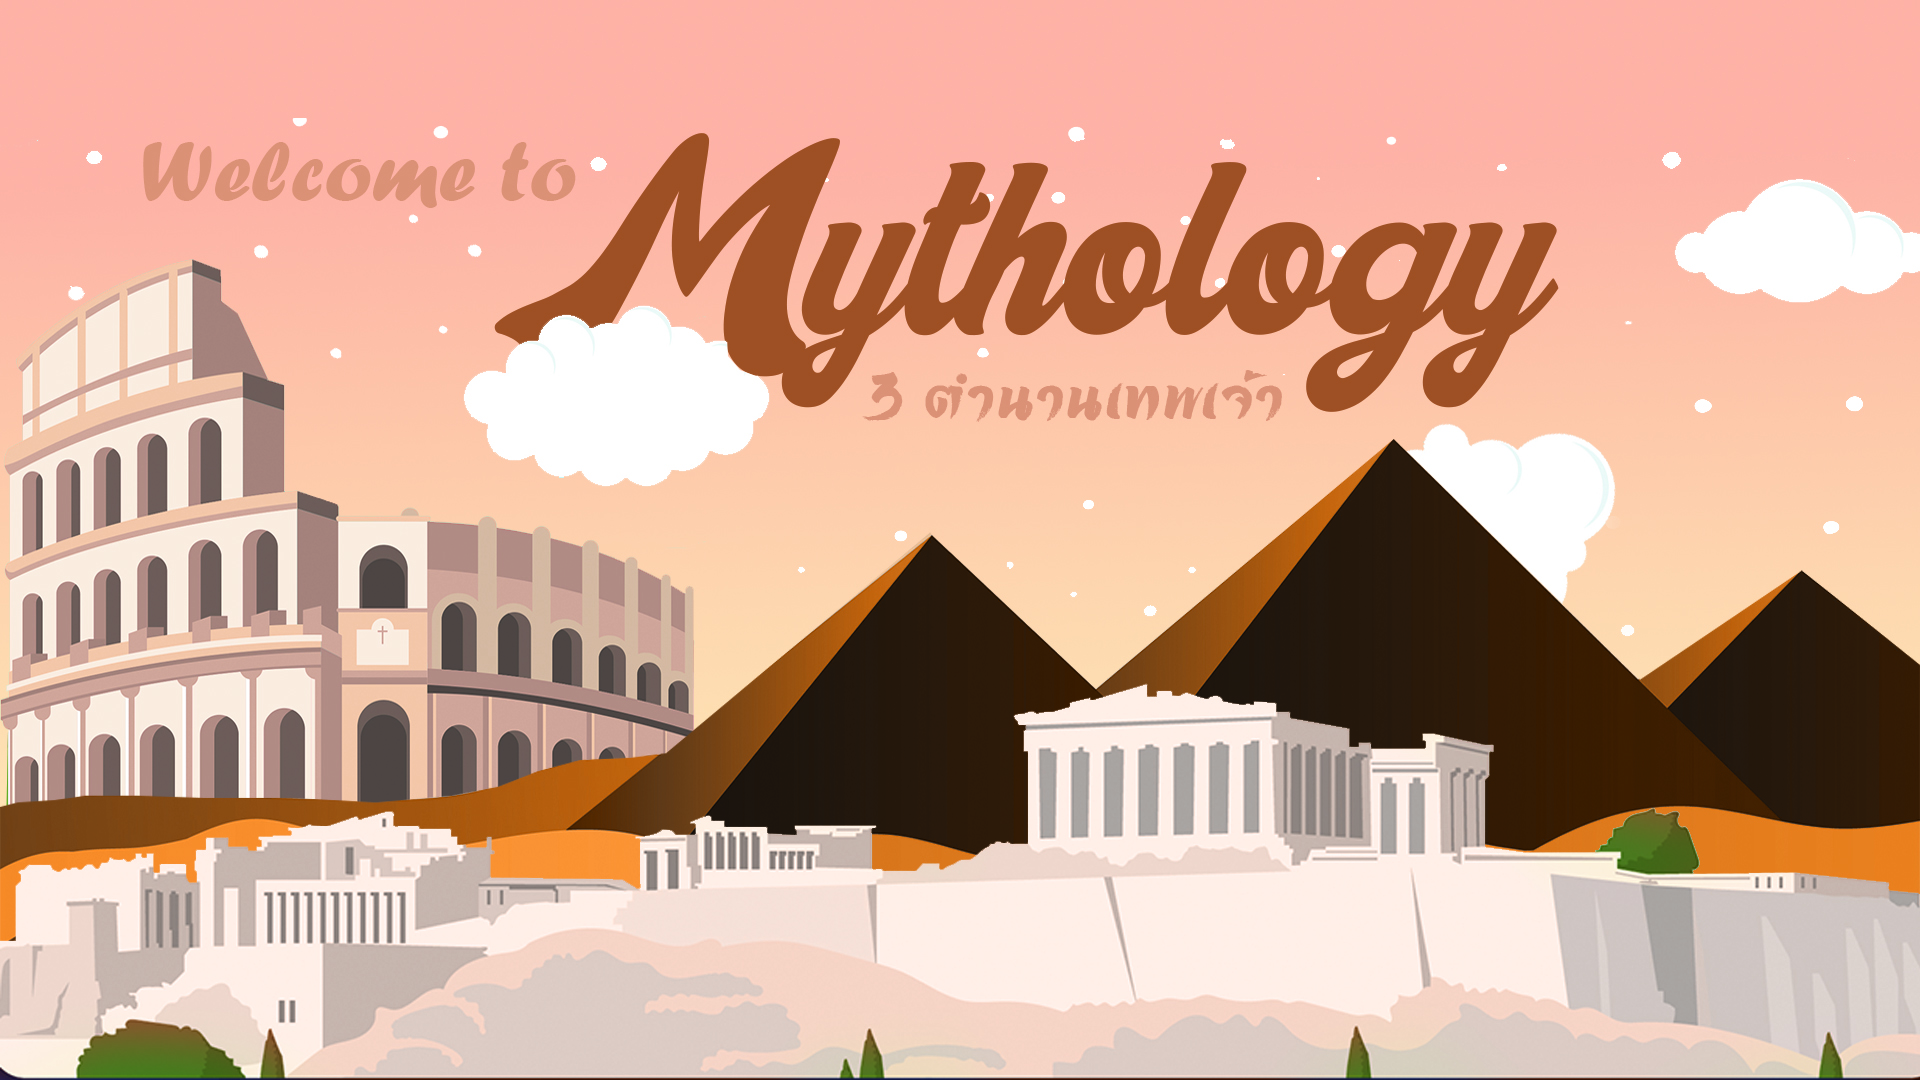
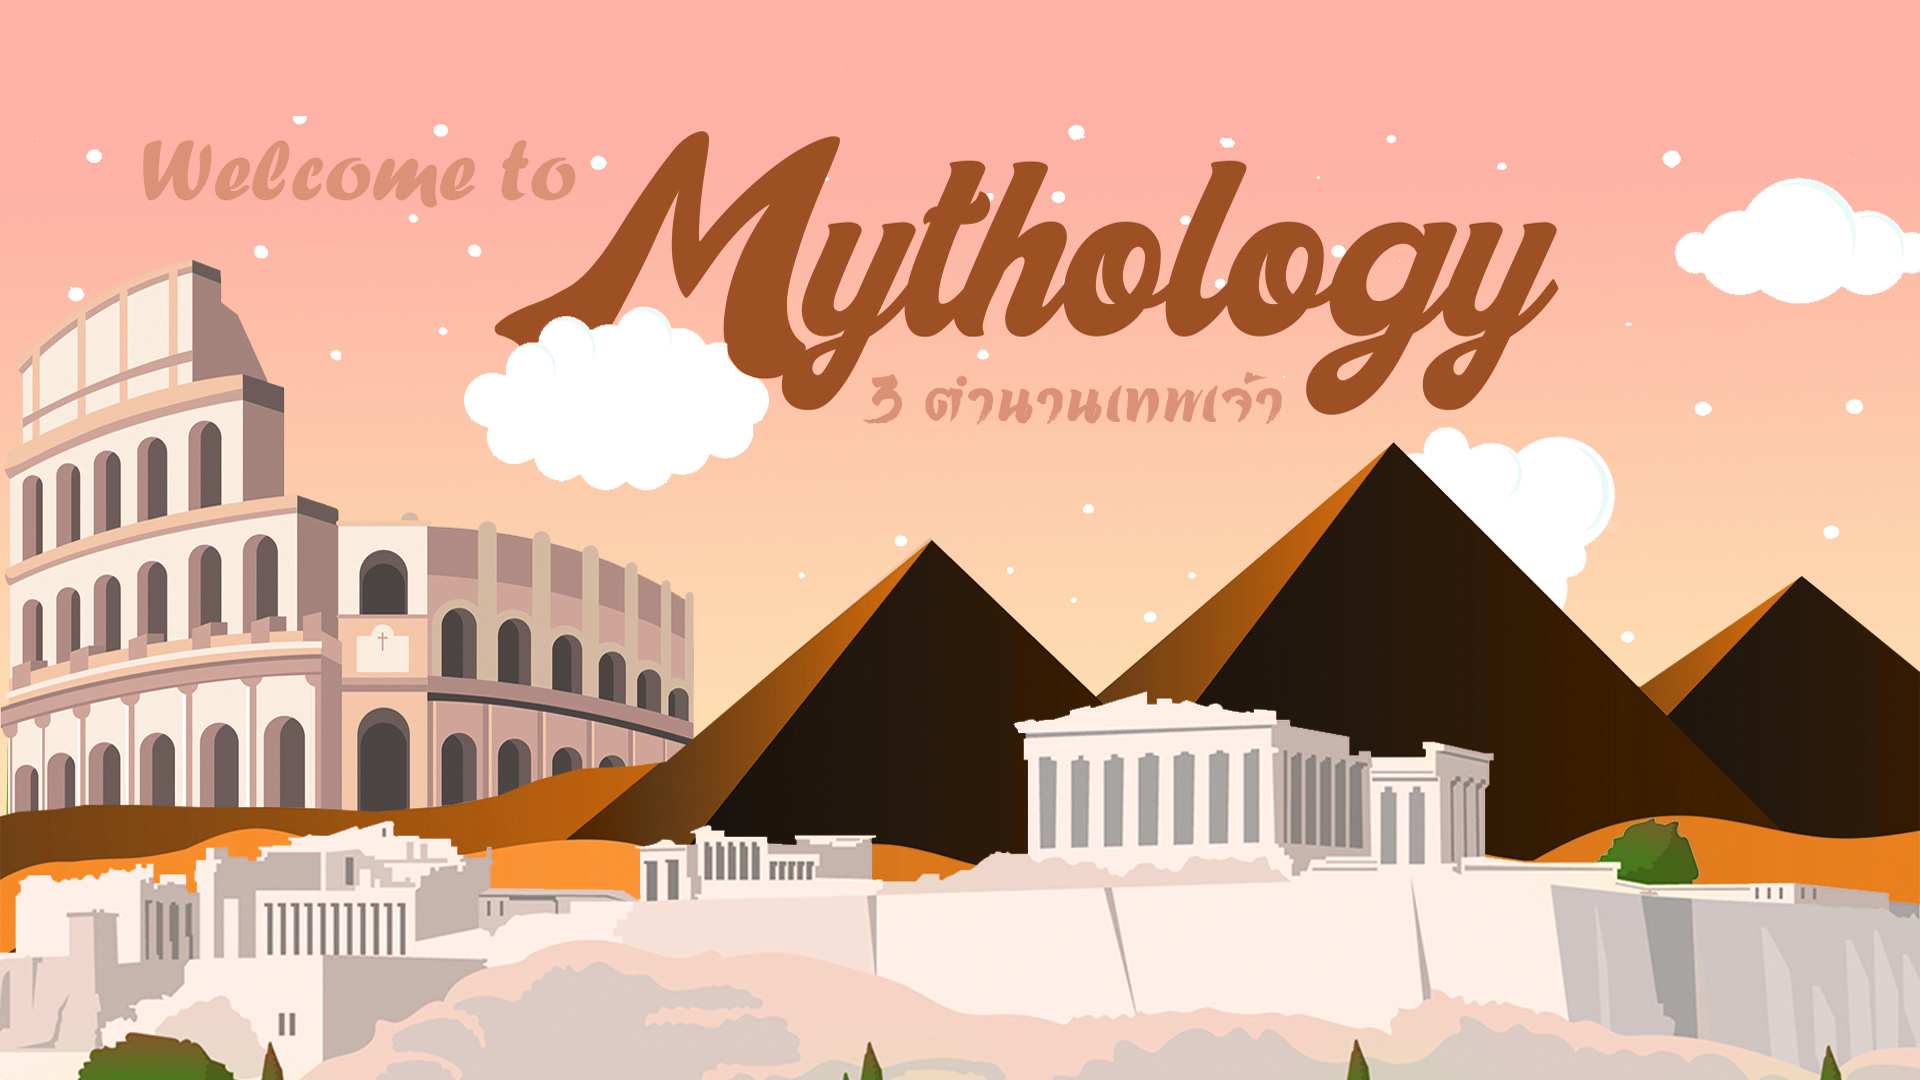
index Test

diff --git a/indextest.html b/indextest.html
@@ -1,0 +1,160 @@
+<!DOCTYPE html>
+<html lang="en">
+
+<head>
+    <meta charset="UTF-8">
+    <meta name="viewport" content="width=device-width, initial-scale=1.0">
+    <meta http-equiv="X-UA-Compatible" content="ie=edge">
+    <title>Document</title>
+    <link rel="stylesheet" href="style.css">
+    <link rel="stylesheet" href="https://stackpath.bootstrapcdn.com/bootstrap/4.3.1/css/bootstrap.min.css"
+        integrity="sha384-ggOyR0iXCbMQv3Xipma34MD+dH/1fQ784/j6cY/iJTQUOhcWr7x9JvoRxT2MZw1T" crossorigin="anonymous">
+    <script src="https://code.jquery.com/jquery-3.3.1.slim.min.js"
+        integrity="sha384-q8i/X+965DzO0rT7abK41JStQIAqVgRVzpbzo5smXKp4YfRvH+8abtTE1Pi6jizo" crossorigin="anonymous">
+        </script>
+    <script src="https://cdnjs.cloudflare.com/ajax/libs/popper.js/1.14.7/umd/popper.min.js"
+        integrity="sha384-UO2eT0CpHqdSJQ6hJty5KVphtPhzWj9WO1clHTMGa3JDZwrnQq4sF86dIHNDz0W1" crossorigin="anonymous">
+        </script>
+    <script src="https://stackpath.bootstrapcdn.com/bootstrap/4.3.1/js/bootstrap.min.js"
+        integrity="sha384-JjSmVgyd0p3pXB1rRibZUAYoIIy6OrQ6VrjIEaFf/nJGzIxFDsf4x0xIM+B07jRM" crossorigin="anonymous">
+        </script>
+    <link rel="stylesheet" href="style.css">
+    <link href="https://fonts.googleapis.com/css?family=Sriracha&display=swap" rel="stylesheet">
+</head>
+
+<body>
+    <div class="">
+        <nav class="navbar navbar-expand-sm navbar-dark fixed-top">
+            <div class="collapse navbar-collapse" id="navbarSupportedContent">
+                <ul class="navbar-nav mr-auto pl-5">
+                    <li class="nav-item">
+                        <a class="nav-link active" href="#">Home</a>
+                    </li>
+                    <li class="nav-item">
+                        <a class="nav-link" href="#">Category</a>
+                    </li>
+                    <li class="nav-item">
+                        <a class="nav-link" href="#">Team</a>
+                    </li>
+                    <li class="nav-item">
+                        <a class="nav-link" href="#">Contact</a>
+                    </li>
+                </ul>
+                <form class="form-inline my-2 my-sm-0">
+                    <input class="form-control mr-sm-3" type="search" placeholder="Search" aria-label="Search">
+                    <button class="btn btn-outline-success my-2 my-sm-0" type="submit">Search</button>
+                </form>
+            </div>
+        </nav>
+        <div class="home">
+            <img src="Full-Design/Labelhome.jpg" class="img-fluid">
+            <div class="clouds">
+
+                <svg version="1.1" xmlns="http://www.w3.org/2000/svg" xmlns:xlink="http://www.w3.org/1999/xlink" x="0px"
+                    y="0px" width="762px" height="331px" viewBox="0 0 762 331" enable-background="new 0 0 762 331"
+                    xml:space="preserve" class="cloud big front slowest">
+                    <path fill="#FFFFFF" d="M715.394,228h-16.595c0.79-5.219,1.201-10.562,1.201-16c0-58.542-47.458-106-106-106
+                        c-8.198,0-16.178,0.932-23.841,2.693C548.279,45.434,488.199,0,417.5,0c-84.827,0-154.374,65.401-160.98,148.529
+                        C245.15,143.684,232.639,141,219.5,141c-49.667,0-90.381,38.315-94.204,87H46.607C20.866,228,0,251.058,0,279.5
+                        S20.866,331,46.607,331h668.787C741.133,331,762,307.942,762,279.5S741.133,228,715.394,228z" />
+                </svg>
+                <svg version="1.1" xmlns="http://www.w3.org/2000/svg" xmlns:xlink="http://www.w3.org/1999/xlink" x="0px"
+                    y="0px" width="762px" height="331px" viewBox="0 0 762 331" enable-background="new 0 0 762 331"
+                    xml:space="preserve" class="cloud distant smaller">
+                    <path fill="#FFFFFF" d="M715.394,228h-16.595c0.79-5.219,1.201-10.562,1.201-16c0-58.542-47.458-106-106-106
+                        c-8.198,0-16.178,0.932-23.841,2.693C548.279,45.434,488.199,0,417.5,0c-84.827,0-154.374,65.401-160.98,148.529
+                        C245.15,143.684,232.639,141,219.5,141c-49.667,0-90.381,38.315-94.204,87H46.607C20.866,228,0,251.058,0,279.5
+                        S20.866,331,46.607,331h668.787C741.133,331,762,307.942,762,279.5S741.133,228,715.394,228z" />
+                </svg>
+
+                <svg version="1.1" xmlns="http://www.w3.org/2000/svg" xmlns:xlink="http://www.w3.org/1999/xlink" x="0px"
+                    y="0px" width="762px" height="331px" viewBox="0 0 762 331" enable-background="new 0 0 762 331"
+                    xml:space="preserve" class="cloud small slow">
+                    <path fill="#FFFFFF" d="M715.394,228h-16.595c0.79-5.219,1.201-10.562,1.201-16c0-58.542-47.458-106-106-106
+                        c-8.198,0-16.178,0.932-23.841,2.693C548.279,45.434,488.199,0,417.5,0c-84.827,0-154.374,65.401-160.98,148.529
+                        C245.15,143.684,232.639,141,219.5,141c-49.667,0-90.381,38.315-94.204,87H46.607C20.866,228,0,251.058,0,279.5
+                        S20.866,331,46.607,331h668.787C741.133,331,762,307.942,762,279.5S741.133,228,715.394,228z" />
+                </svg>
+
+                <svg version="1.1" xmlns="http://www.w3.org/2000/svg" xmlns:xlink="http://www.w3.org/1999/xlink" x="0px"
+                    y="0px" width="762px" height="331px" viewBox="0 0 762 331" enable-background="new 0 0 762 331"
+                    xml:space="preserve" class="cloud distant super-slow massive">
+                    <path fill="#FFFFFF" d="M715.394,228h-16.595c0.79-5.219,1.201-10.562,1.201-16c0-58.542-47.458-106-106-106
+                        c-8.198,0-16.178,0.932-23.841,2.693C548.279,45.434,488.199,0,417.5,0c-84.827,0-154.374,65.401-160.98,148.529
+                        C245.15,143.684,232.639,141,219.5,141c-49.667,0-90.381,38.315-94.204,87H46.607C20.866,228,0,251.058,0,279.5
+                        S20.866,331,46.607,331h668.787C741.133,331,762,307.942,762,279.5S741.133,228,715.394,228z" />
+                </svg>
+
+                <svg version="1.1" xmlns="http://www.w3.org/2000/svg" xmlns:xlink="http://www.w3.org/1999/xlink" x="0px"
+                    y="0px" width="762px" height="331px" viewBox="0 0 762 331" enable-background="new 0 0 762 331"
+                    xml:space="preserve" class="cloud slower">
+                    <path fill="#FFFFFF" d="M715.394,228h-16.595c0.79-5.219,1.201-10.562,1.201-16c0-58.542-47.458-106-106-106
+                        c-8.198,0-16.178,0.932-23.841,2.693C548.279,45.434,488.199,0,417.5,0c-84.827,0-154.374,65.401-160.98,148.529
+                        C245.15,143.684,232.639,141,219.5,141c-49.667,0-90.381,38.315-94.204,87H46.607C20.866,228,0,251.058,0,279.5
+                        S20.866,331,46.607,331h668.787C741.133,331,762,307.942,762,279.5S741.133,228,715.394,228z" />
+                </svg>
+
+            </div>
+        </div>
+        <div class="choose">
+            <img src="Full-Design/Choose.jpg" class="img-fluid">
+            <div class="container-fluid">
+                <div class="row">
+                    <div class="col-sm">
+                        <a href="justtest.html"><label><img src="Full-Design/LogoGreek.png" alt="" class="img-fluid"></label></a>
+                    </div>
+                    <div class="col-sm">
+                        <a href="justtest.html"><label><img src="Full-Design/LogoNorse.png" alt="" class="img-fluid"></label></a>
+                    </div>
+                    <div class="col-sm">
+                        <a href="justtest.html"><label><img src="Full-Design/LogoEgypt.png" alt="" class="img-fluid"></label></a>
+                    </div>
+                </div>
+            </div>
+        </div>
+        <div class="Teamproduct">
+            <img src="Full-Design/Teamproduct.jpg" class="img-fluid">
+        </div>
+        <div class="homequiz">
+                <br>
+                <br>
+                <br>
+                <br>
+                <br>
+            <div class="container-fluid">
+                <h1>Quiz for Memory Mythology </h1>
+                <h2> แบบทดสอบช่วยทวนความจำ Click จรวดเลย~~</h2>
+                <div class="row">
+                    <div class="col-md" align="center">
+                        <br>
+                        <br>
+                        <br>
+                        <br>
+                        <br>
+                        <br>
+                        <a href="justtest.html"><img src="Full-Design/paperplane.png" alt="" class="img-fluid"
+                                id="vert-move"></label></a>
+                                <br>
+                        <br>
+                        <br>
+                        <br>
+                        <br>
+                        <br>
+                      
+                    </div>
+                </div>
+            </div>
+            <br>
+                <br>
+                <br>
+                <br>
+                <br>
+        </div>
+        <div class="contact">
+            <img src="Full-Design/Contactus.jpg" class="img-fluid">
+        </div>
+
+
+</body>
+
+</html>

diff --git a/style.css b/style.css
@@ -1,10 +1,207 @@
-div.col-lg{
+
+h1{
+  font-size: 50px;
+  color: rgb(255, 255, 255);
+  font-family: 'Sriracha', cursive;
+  text-align:center;
+}
+h2{
+  font-size: 22px;
+  color: rgb(52, 65, 121);
+  font-family: 'Sriracha', cursive;
+  text-align:center;
+}
+.choose {
+    display:inline-block;
+    margin: 0px auto;
+    margin-top: 0px;
+}
+@media (min-width: 400px){
+.homequiz {
+    
+    background-image: url("Full-Design/testbackquiz.jpg");
+}
+}
+.home {
+    margin: 0px auto;
+    position: relative;
+    margin-top: 0px;
+}
+.img-fluid {
+    border: 0px;
     padding: 0%;
+    /* Some padding */
+}
+@media (min-width: 400px){
+  .container-fluid{
+
+  }
 }
 
-img.img-thumbnail{
-    padding: 0%;
+* {
+    position: relative;
+  }
+  
+  .frame {
+    width: 500px;
+    height: auto;
+    margin: 15% auto 0;
+    position: absolute;
+    width: 100%;
+  }
+  #posit{
+    border: 0px;
+    margin-top: -53%;
+  }
+  #vert-move {
+    -webkit-animation: mover 1s infinite  alternate;
+    animation: mover 1s infinite  alternate;
 }
-label{
-    cursor: pointer;
+  #vert-move {
+    -webkit-animation: mover 1s infinite  alternate;
+    animation: mover 1s infinite  alternate;
 }
+@-webkit-keyframes mover {
+    0% { transform: translateY(0); }
+    100% { transform: translateY(-10px); }
+}
+@keyframes mover {
+    0% { transform: translateY(0); }
+    100% { transform: translateY(-100px); }
+}
+
+ 
+  /**
+   * Clouds
+   */
+  .clouds {
+    position: absolute;
+    top: 0;
+    left: 0;
+    right: 0;
+    bottom: 0;
+    overflow: hidden;
+    transform: translateZ(0);
+  }
+  
+  .cloud {
+    position: absolute;
+    top: 20%;
+    width: 300px;
+    right: 0;
+    opacity: 1;
+  }
+  
+  .cloud.front {
+    z-index: 9;
+  }
+  
+  .cloud.distant {
+    z-index: 1;
+  }
+  
+  .cloud.background {
+    z-index: 1;
+  }
+  
+  /*Cloud Sizing*/
+  .cloud.smaller {
+    margin-right: 400px;
+    width: 100px;
+    margin-top: 50px;
+  }
+  
+  .cloud.small {
+    margin-right: 200px;
+    width: 150px;
+  }
+  
+  .cloud.big {
+    width: 500px;
+    margin-top: 50px;
+    margin-right: 150px;
+  }
+  
+  .cloud.massive {
+    width: 600px;
+    margin-top: 20px;
+    margin-right: 0px;
+  }
+  
+  
+  /*Cloud: Animation*/
+  .cloud {
+    -webkit-animation-name: cloud-movement;
+    -webkit-animation-timing-function: linear;
+    -webkit-animation-direction: forwards;
+    -webkit-animation-iteration-count: infinite;
+    -webkit-animation-duration: 8s;
+  
+    -moz-animation-name: cloud-movement;
+    -moz-animation-timing-function: linear;
+    -moz-animation-direction: forwards;
+    -moz-animation-iteration-count: infinite;
+    -moz-animation-duration: 8s;
+  
+    animation-name: cloud-movement;
+    animation-timing-function: linear;
+    animation-direction: forwards;
+    animation-iteration-count: infinite;
+    animation-duration: 8s;
+  }
+  
+  .slow {
+    -webkit-animation-duration: 9.2s;
+    -moz-animation-duration: 9.2s;
+    animation-duration: 9.2s;
+  }
+  
+  .slower {
+    -webkit-animation-duration: 11.2s;
+    -moz-animation-duration: 11.2s;
+    animation-duration: 11.2s;
+  }
+  
+  .slowest {
+    -webkit-animation-duration: 13.5s;
+    -moz-animation-duration: 13.5s;
+    animation-duration: 13.5s;
+  }
+  
+  .super-slow {
+    -webkit-animation-duration: 20.5s;
+    -moz-animation-duration: 20.5s;
+    animation-duration: 20.5s;
+  }
+  
+  @-webkit-keyframes cloud-movement {
+    0% {
+      opacity: 0.1;
+      -webkit-transform: translateX(300px);
+      -moz-transform: translateX(300px);
+      transform: translateX(300px);
+    }
+    10% {
+  
+      opacity: 0.7;
+    }
+    90% {
+      opacity: 0;
+    }
+    100% {
+      opacity: 0;
+      -webkit-transform: translateX(-1000px);
+      -moz-transform: translateX(-1000px);
+      transform: translateX(-1000px);
+    }
+  }
+  @media (min-width: 300px){
+.col-sm {
+    -ms-flex-preferred-size: 0;
+    flex-basis: 0;
+    -ms-flex-positive: 1;
+    flex-grow: 1;
+    max-width: 100%;
+    margin-top: -42%;
+}
+  }
